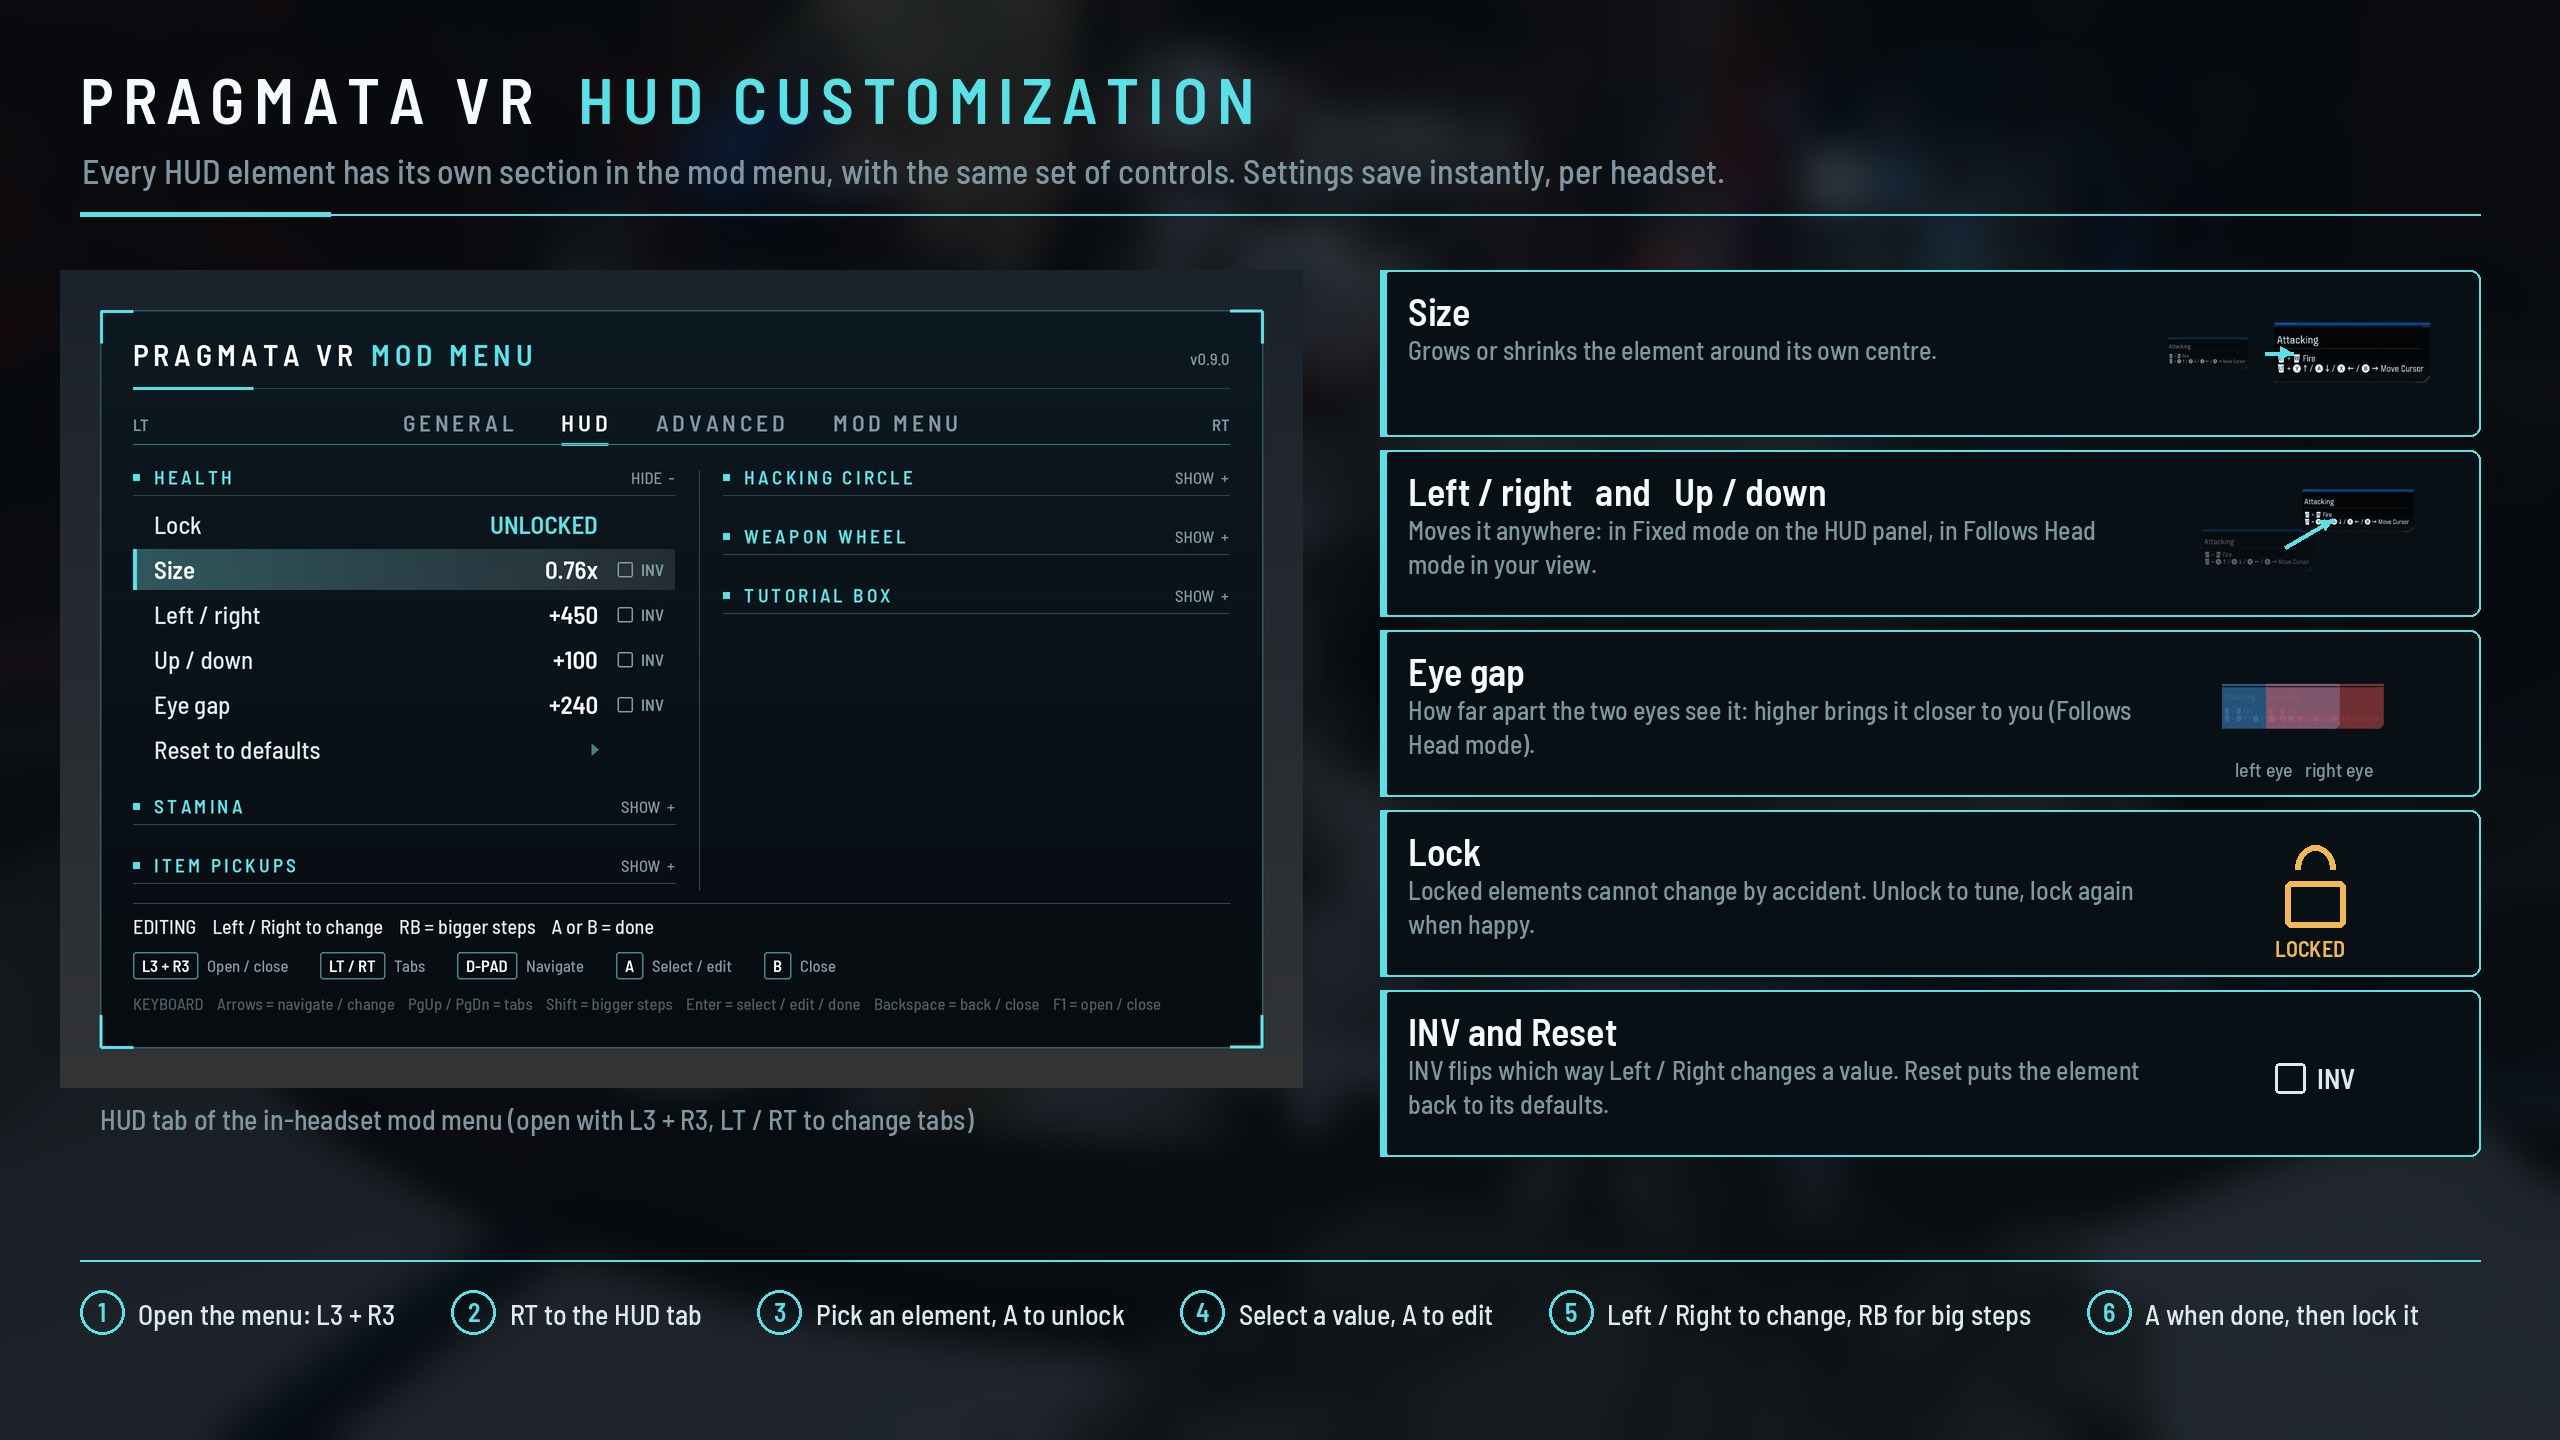
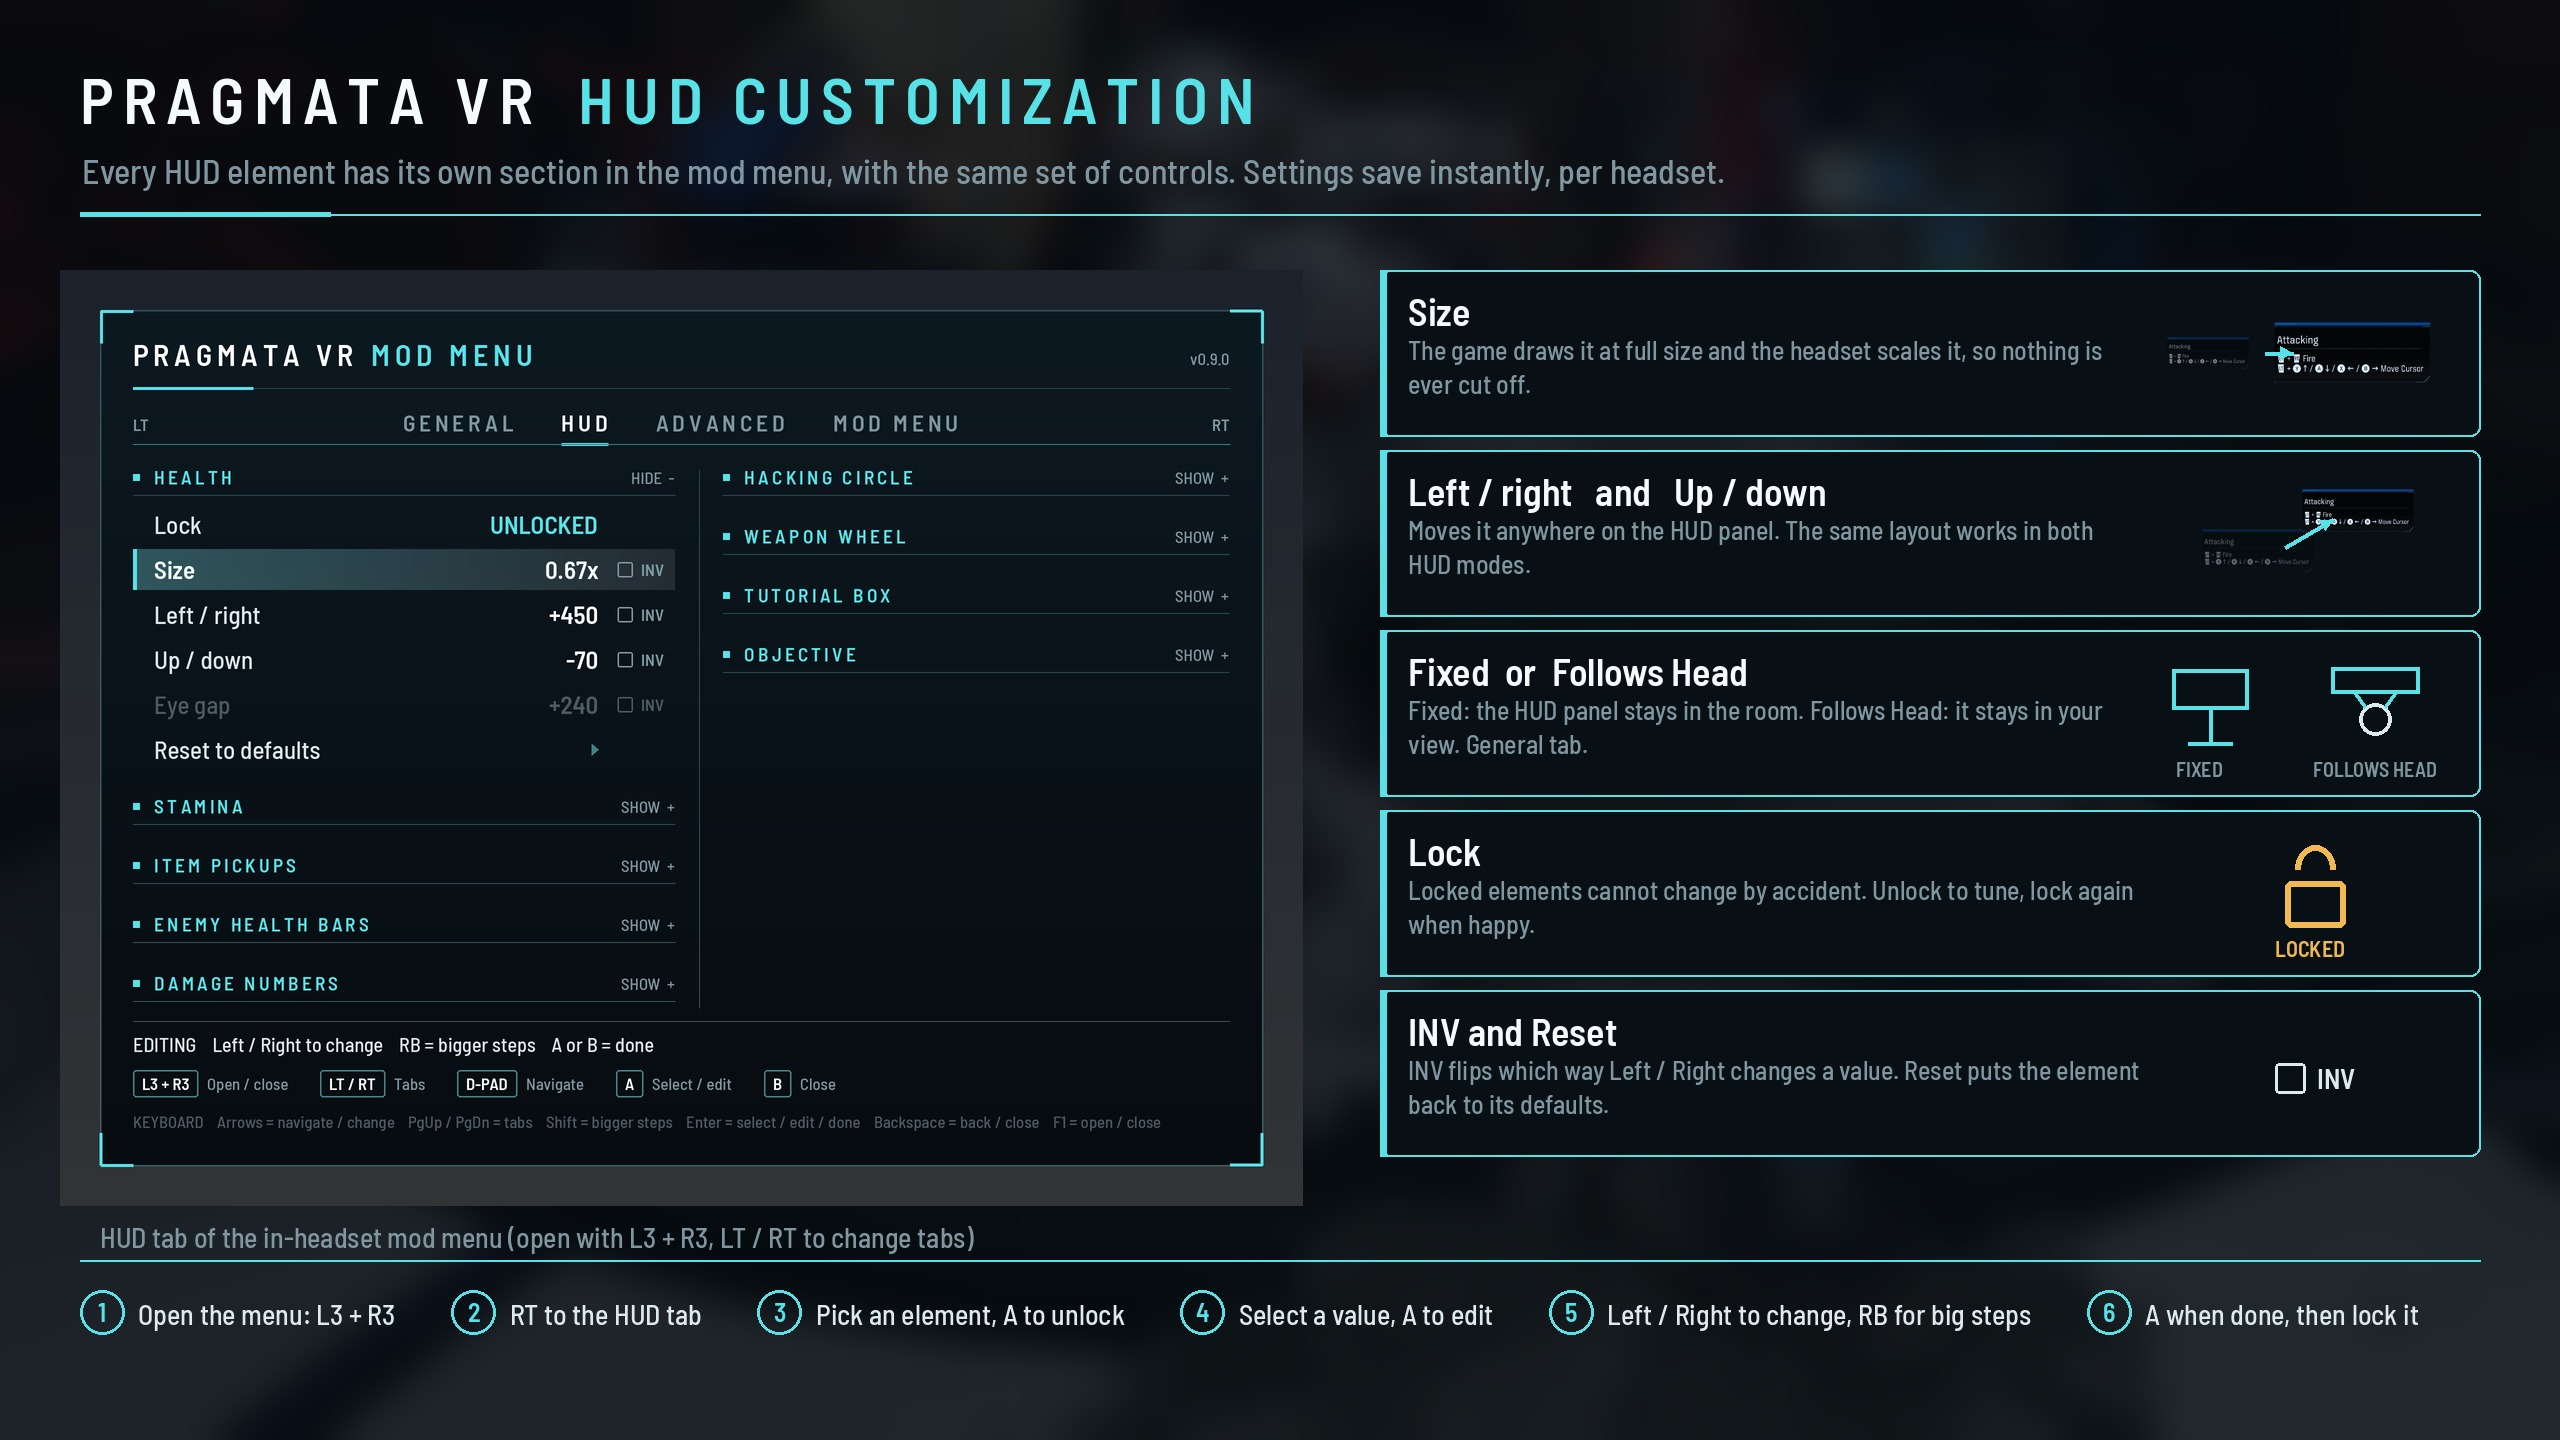
README: updated HUD images (objective, per-element panels), headset and full-size explainers
Claude-Session: https://claude.ai/code/session_01X3Q9wAJ9VTNHMUsSJysxwv

diff --git a/README.md b/README.md
@@ -79,6 +79,14 @@ The menu stays fixed in the room where you opened it. It has four tabs:
   <img src="docs/images/hud-customization.jpg" alt="How HUD element customization works" width="90%">
 </p>
 
+<p align="center">
+  <img src="docs/images/one-hud-does-not-fit-all.jpg" alt="Every headset sees a different slice of the game, so each HUD element is tuned on its own" width="90%">
+</p>
+
+Every headset, field of view setting and render resolution shows a different slice of the game, and
+Pragmata has a lot of HUD that comes and goes. One fixed layout cannot suit them all, so each HUD element
+is tuned on its own, and every headset keeps its own settings.
+
 Each HUD element has its own section on the HUD tab: **health, stamina, item pickups, objective, hacking
 circle, weapon wheel and tutorial box**. Every section has the same controls:
 
@@ -90,6 +98,10 @@ circle, weapon wheel and tutorial box**. Every section has the same controls:
 | Eye gap | Hacking circle only: how far apart the two eyes see it. The other elements take their depth from the HUD distance. |
 | INV | Flips which way Left / Right changes that value. |
 | Reset to defaults | Puts the element back to its starting values. |
+
+<p align="center">
+  <img src="docs/images/full-size-then-scaled.jpg" alt="The game draws each HUD element at full size and the headset scales it, so nothing is cut off" width="90%">
+</p>
 
 **HUD modes:**
 
